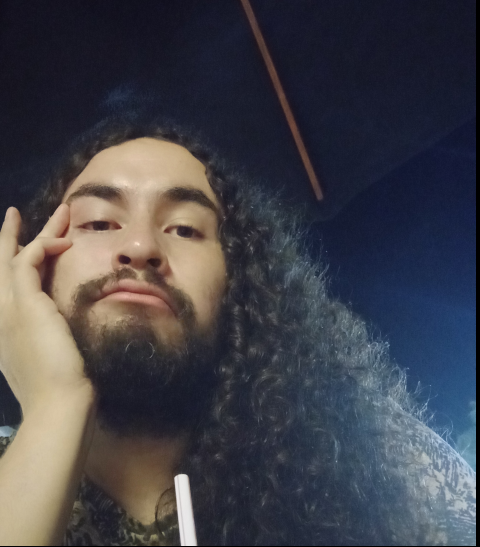
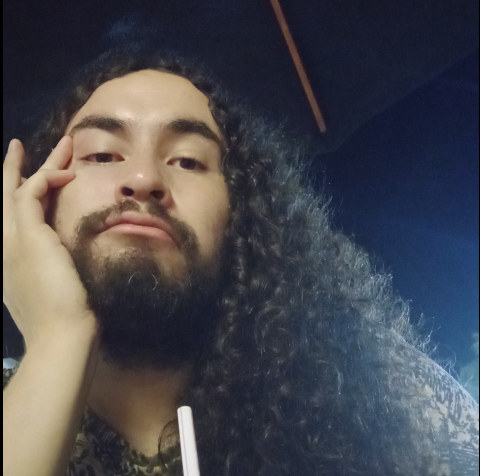
.

diff --git a/index.html b/index.html
@@ -67,13 +67,13 @@
         <div class="contenido-seccion">
             <h2>Sobre Mí</h2>
             <p>
-                Hola mi nombre es Giovanny, la primera vez que vi codigo intentaba modificar un juego de PlayStation, el genialoso Megaman x5, ejecute un programa para ver el codigo y cuando lo veo quede anonadado, ahora se que todo lo que ví estaba en C#.
+                Hola mi nombre es Giovanny, la primera vez que ví código intentaba modificar un juego de PlayStation, el genialoso Megaman x5, ejecute un programa cual mostraba el código y cuando lo ví quedé anonadado, ahora sé que todo lo que contemple era en C#.
                 
             </p>
             <p>
-                Como entusiasta de la programacion y la tecnologias he realizado paginas y aplicaciones web para clientes/colegas que han incrementado enormemente sus ingresos!.
+                Como entusiasta de la programación y la tecnologías he realizado paginas y aplicaciones web para clientes/colegas que han incrementado enormemente sus ingresos!.
                 Actualmente soy un Desarrollador Fullstack de 28 años, que se encuentra 
-                desarrollando cada día lo que alguna vez imagino.
+                desarrollando cada día lo que alguna vez imaginó.
             </p>
             <div class="fila">
                 <!-- datos personales -->
@@ -190,7 +190,7 @@
                 <br>
                 <strong>Backend:</strong> Node.js 18, TypeScript, Express, MongoDB, mongoose y Cloudinary para el manejo y almacenamiento de imagenes.
                 <br>
-                El despliegue del backend fue realizado en Railway, el cual proporciona una capa gratuita muy versátil. Incluí GitHub Actions para el CI, haciendo que cada vez que realice un push al repositorio en la rama principal, se actualice automáticamente el backend en Railway. Para el frontend, utilicé Netlify, el cual de la misma manera incluye una capa gratuita y tiene un GitHub Action con la misma acción anterior.
+                El despliegue del backend fue realizado en Railway, el cual proporciona una capa gratuita muy versátil. Para el frontend, utilicé Netlify, el cual de la misma manera incluye una capa gratuita.
                 <br>
                 Ir a la App: <a href="https://amazing-caramel-5e90cf.netlify.app" target="_blank">MangaApp</a>
             </p>

diff --git a/style.css b/style.css
@@ -109,14 +109,15 @@ body::-webkit-scrollbar-thumb {
 }
 
 .inicio .contenido-banner img {
-    margin-top: 40px;
-    border: 8px solid #d3b81f;
+    margin-top: 4px;
+    border: 6px solid #d3b81f;
     border-image: linear-gradient(90deg, rgba(211, 184, 31, 1) 0%, rgba(75, 204, 35, 1) 100%) 10px rounded;
     display: block;
     width: 80%;
+    height: 80%;
     margin: auto;
     border-radius: 100%;
-}
+    }
 
 .inicio .contenido-banner h1 {
     margin-top: 40px;
